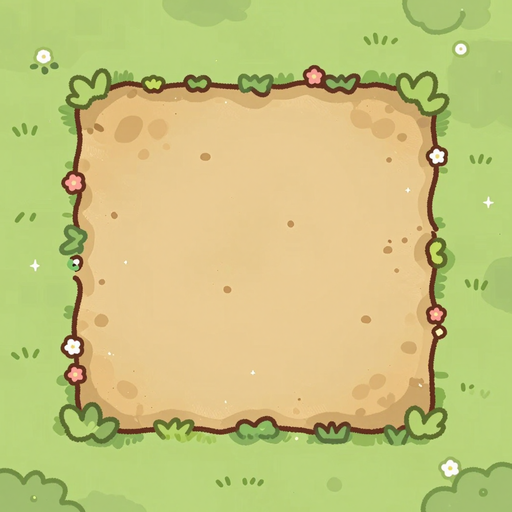
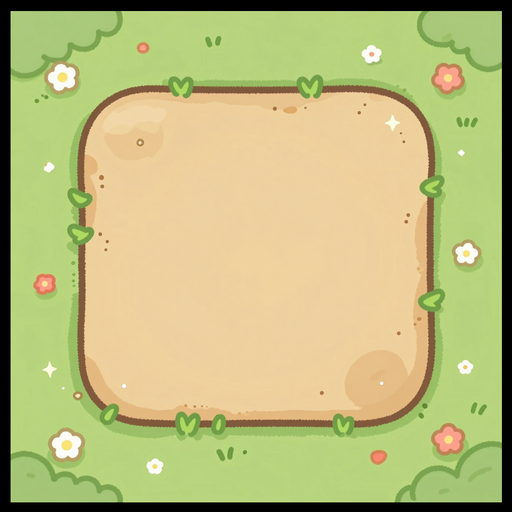
alfa 5b7b6e4: Merge: camino con las esquinas redondas, como Triple Town

diff --git a/alfa/demos/merge/js/losetas.js b/alfa/demos/merge/js/losetas.js
@@ -1,49 +1,59 @@
 // Fans of Merge · el CAMINO de tierra: LOSETAS pintadas a mano como en Animal Crossing (no una forma recortada por código), su camino de repuesto y su dibujo en la partida.
-// De una losa grande (un cuadrado de tierra sobre hierba, img/losa.png) salen el centro (tierra lisa), 4 lados y 4 esquinas, con la hierba,
-// las flores y las piedrecitas pintadas comiéndose el borde.
+// De una losa grande (un cuadrado de tierra con las esquinas redondas sobre hierba, img/losa.png) salen el centro (tierra lisa), 4 lados y
+// 4 esquinas redondas, con la hierba, las flores y las piedrecitas pintadas comiéndose el borde. De una isla (hierba redonda dentro de
+// tierra, img/isla.png) salen los 4 rincones, donde dos caminos se juntan en ángulo.
 // La tierra es algo más pequeña que la casilla (como en Triple Town) y solo se une con la vecina cuando las dos son camino; por cada lado
 // que da a la hierba lleva su borde pintado y, en cada esquina de fuera, su esquina. Los bordes se repiten en espejo para no cortarse.
 'use strict';
-// B = qué parte de la losa es borde (hierba + ondas; merge_losas.py deja la tierra a 1/6); O = cuánta tierra de más lleva cada lado para fundirse con el centro;
-// I = el margen de hierba que deja la tierra dentro de su casilla (como en Triple Town); A = lo ancho que sale el borde pintado (las dos, en partes de casilla)
-const MG_LOSA = { de: '', piezas: null, B: 0.2, O: 0.06, I: 0.13, A: 0.24 };
-// recorta una zona de una imagen y la desvanece: por fuera (fx, fy: -1, 0 o 1 = el lado de la hierba, que se funde con el suelo)
-// y, si fi > 0, por dentro (la parte de tierra que se mete en la casilla, para que se funda con el centro sin dejar raya)
-function mgLosaTrozo(im, x, y, w, h, fx, fy, fi) {
+// Medidas, en partes del lado de la imagen (merge_losas.py deja el cuadrado de tierra, o el de hierba en la isla, en los 2/3 del centro):
+// B = el borde de la losa (hierba, ondas y un poco de tierra); E = hasta dónde llega la esquina redonda contando desde el borde de la imagen;
+// O = cuánta tierra de más lleva cada pieza por dentro, que se funde con el centro; F = cuánta hierba se desvanece por fuera, para fundirse con el suelo;
+// IF = hasta dónde sale la esquina de la isla hacia la tierra; IR = hasta dónde entra en su hierba (su esquina redonda); C = desde dónde se toma el centro liso.
+// En partes de casilla: I = el margen de hierba que deja la tierra dentro de su casilla (como en Triple Town); A = lo ancho que se pinta el borde B.
+const MG_LOSA = { de: '', piezas: null, B: 0.2, E: 0.27, O: 0.06, F: 0.1, IF: 0.08, IR: 0.26, C: 0.27, I: 0.13, A: 0.24 };
+// recorta una zona (x, y, w, h) de una imagen y la desvanece por los lados que se le digan: f = [izquierda, derecha, arriba, abajo], en px de la imagen
+function mgLosaTrozo(im, x, y, w, h, f) {
   const cv = document.createElement('canvas'); cv.width = Math.max(1, Math.round(w)); cv.height = Math.max(1, Math.round(h));
   const c = cv.getContext('2d'); c.drawImage(im, x, y, w, h, 0, 0, cv.width, cv.height);
   c.globalCompositeOperation = 'destination-in';
-  // a lo largo del eje: 0 = el borde de fuera, 1 = el de dentro
-  const tira = (L, dir, horiz) => {
-    const g = horiz ? c.createLinearGradient(dir < 0 ? 0 : L, 0, dir < 0 ? L : 0, 0) : c.createLinearGradient(0, dir < 0 ? 0 : L, 0, dir < 0 ? L : 0);
-    g.addColorStop(0, 'rgba(0,0,0,0)'); g.addColorStop(0.4, 'rgba(0,0,0,1)');
-    if (fi) { g.addColorStop(Math.max(0.41, 1 - fi), 'rgba(0,0,0,1)'); g.addColorStop(1, 'rgba(0,0,0,0)'); } else g.addColorStop(1, 'rgba(0,0,0,1)');
+  const tira = (L, horiz, f0, f1) => {
+    if (!f0 && !f1) return;
+    const g = horiz ? c.createLinearGradient(0, 0, L, 0) : c.createLinearGradient(0, 0, 0, L);
+    g.addColorStop(0, f0 ? 'rgba(0,0,0,0)' : 'rgba(0,0,0,1)'); g.addColorStop(Math.min(0.49, f0 / L), 'rgba(0,0,0,1)');
+    g.addColorStop(Math.max(0.51, 1 - f1 / L), 'rgba(0,0,0,1)'); g.addColorStop(1, f1 ? 'rgba(0,0,0,0)' : 'rgba(0,0,0,1)');
     c.fillStyle = g; c.fillRect(0, 0, cv.width, cv.height);
   };
-  if (fx) tira(cv.width, fx, true);
-  if (fy) tira(cv.height, fy, false);
+  tira(cv.width, true, f[0], f[1]); tira(cv.height, false, f[2], f[3]);
   return cv;
 }
 function mgLosetasPrepara() {
-  const A = MG_IMG.LOSA;
-  if (!A) return false;
-  if (MG_LOSA.de === A.src) return true;
-  const w = A.width, b = w * MG_LOSA.B, m = w - 2 * b, o = w * MG_LOSA.O, fi = o / (b + o);
-  const P = { c: mgLosaTrozo(A, b, b, m, m, 0, 0, 0) };
-  // los lados llevan su hierba por fuera y un poco de tierra de más por dentro, que se funde con el centro
-  P.n = mgLosaTrozo(A, b, 0, m, b + o, 0, -1, fi); P.s = mgLosaTrozo(A, b, w - b - o, m, b + o, 0, 1, fi);
-  P.o = mgLosaTrozo(A, 0, b, b + o, m, -1, 0, fi); P.e = mgLosaTrozo(A, w - b - o, b, b + o, m, 1, 0, fi);
-  P.no = mgLosaTrozo(A, 0, 0, b, b, 0, 0, 0); P.ne = mgLosaTrozo(A, w - b, 0, b, b, 0, 0, 0); P.so = mgLosaTrozo(A, 0, w - b, b, b, 0, 0, 0); P.se = mgLosaTrozo(A, w - b, w - b, b, b, 0, 0, 0);
-  MG_LOSA.piezas = P; MG_LOSA.de = A.src; MG_LOSA.m = m / w; MG_LOSA.o = o / w;
+  const A = MG_IMG.LOSA, I = MG_IMG.ISLA;
+  if (!A || !I) return false;
+  const clave = A.src + '|' + I.src; if (MG_LOSA.de === clave) return true;
+  const L = MG_LOSA, w = A.width, b = w * L.B, m = w - 2 * b, o = w * L.O, f = w * L.F, e = w * L.E + o, lado = w - 2 * (e - o);   // lado = lo que queda de lado entre esquinas
+  const cc = w * L.C, P = { c: mgLosaTrozo(A, cc, cc, w - 2 * cc, w - 2 * cc, [0, 0, 0, 0]) };   // el centro: tierra lisa, sin las manchas de cerca del borde (al voltearse formarían una flor en cada cruce)
+  // los lados (sin sus esquinas): hierba por fuera, que se desvanece, y un poco de tierra por dentro, que se funde con el centro
+  P.n = mgLosaTrozo(A, e - o, 0, lado, b + o, [0, 0, f, o]); P.s = mgLosaTrozo(A, e - o, w - b - o, lado, b + o, [0, 0, o, f]);
+  P.o = mgLosaTrozo(A, 0, e - o, b + o, lado, [f, o, 0, 0]); P.e = mgLosaTrozo(A, w - b - o, e - o, b + o, lado, [o, f, 0, 0]);
+  // las esquinas redondas, con su trozo de tierra, que tapan el pico cuadrado de la tierra de debajo
+  P.no = mgLosaTrozo(A, 0, 0, e, e, [f, o, f, o]); P.ne = mgLosaTrozo(A, w - e, 0, e, e, [o, f, f, o]);
+  P.so = mgLosaTrozo(A, 0, w - e, e, e, [f, o, o, f]); P.se = mgLosaTrozo(A, w - e, w - e, e, e, [o, f, o, f]);
+  // la isla: su hierba redonda, dentro de la tierra, da los rincones donde dos caminos se juntan en ángulo
+  const wi = I.width, t = wi / 6, fi = wi * L.IF, ri = wi * L.IR, fo = wi * L.F, oi = wi * L.O;
+  P.ino = mgLosaTrozo(I, t - fi, t - fi, fi + ri, fi + ri, [oi, fo, oi, fo]); P.ine = mgLosaTrozo(I, wi - t - ri, t - fi, fi + ri, fi + ri, [fo, oi, oi, fo]);
+  P.iso = mgLosaTrozo(I, t - fi, wi - t - ri, fi + ri, fi + ri, [oi, fo, fo, oi]); P.ise = mgLosaTrozo(I, wi - t - ri, wi - t - ri, fi + ri, fi + ri, [fo, oi, fo, oi]);
+  MG_LOSA.piezas = P; MG_LOSA.de = clave; MG_LOSA.px = 1 / w;   // px: una unidad de imagen, en partes del lado
   return true;
 }
 // Pinta el camino con las losetas en el lienzo c (ya con la escala puesta). libre(x, y) dice si una casilla es del camino.
 // Como en Triple Town, la tierra no llena la casilla: deja un margen de hierba (MG_LOSA.I) y solo llega al borde por donde sigue el camino.
 // Para eso cada casilla se parte en 3x3 trocitos (margen, centro, margen): el del centro siempre es tierra, el de un lado si esa vecina
-// es camino, y el de una esquina si las tres casillas de ese lado lo son. Los bordes pintados se ponen donde un trocito de tierra toca hierba.
+// es camino, y el de una esquina si las tres casillas de ese lado lo son. Los bordes pintados se ponen donde un trocito de tierra toca hierba,
+// las esquinas redondas de la losa donde la hierba lo rodea por dos lados y las de la isla en los rincones.
 function mgLosetasPinta(c, libre) {
-  const P = MG_LOSA.piezas, cs = MG_V.cs, n = MG_CFG.lado, ins = cs * MG_LOSA.I;
-  const sb = cs * MG_LOSA.A, so = sb * MG_LOSA.O / MG_LOSA.B;   // cuánto sobresale el borde pintado y cuánto se mete en la tierra
+  const L = MG_LOSA, P = L.piezas, cs = MG_V.cs, n = MG_CFG.lado, ins = cs * L.I;
+  const esc = cs * L.A / L.B;   // px de pantalla por cada parte de imagen: el borde B se pinta de ancho A
+  const sb = esc * L.B, so = esc * L.O, se = esc * L.E + so, sif = esc * L.IF, sir = esc * L.IR;
   const X = x => MG_V.bx + x * cs, Y = y => MG_V.by + y * cs, off = [0, ins, cs - ins, cs];
   const camino = (x, y) => x >= 0 && y >= 0 && x < n && y < n && libre(x, y);
   // ¿es tierra el trocito (i, j) de la casilla (x, y)? en coordenadas globales de trocito: gx = 3x + i
@@ -86,10 +96,14 @@ function mgLosetasPinta(c, libre) {
     if (!T(gx - 1, gy)) tramo(P.o, false, y0, y1, x0 - sb, sb + so, MG_V.by);
     if (!T(gx + 1, gy)) tramo(P.e, false, y0, y1, x1 - so, sb + so, MG_V.by);
   }
-  // las esquinas de fuera (hierba por los dos lados del trocito); las de dentro las cierran los dos bordes que llegan al rincón
   for (const [gx, gy] of trozos) for (const [sx, sy] of [[-1, -1], [1, -1], [-1, 1], [1, 1]]) {
-    if (T(gx + sx, gy) || T(gx, gy + sy)) continue;
-    pon(P[(sy < 0 ? 'n' : 's') + (sx < 0 ? 'o' : 'e')], sx < 0 ? tx0(gx) - sb : tx1(gx), sy < 0 ? ty0(gy) - sb : ty1(gy), sb, sb, 1, 1);
+    const a = T(gx + sx, gy), v = T(gx, gy + sy);
+    if (!a && !v) {   // esquina de fuera: la redonda de la losa, encima del pico de la tierra
+      pon(P[(sy < 0 ? 'n' : 's') + (sx < 0 ? 'o' : 'e')], sx < 0 ? tx0(gx) - sb : tx1(gx) + sb - se, sy < 0 ? ty0(gy) - sb : ty1(gy) + sb - se, se, se, 1, 1);
+    } else if (a && v && !T(gx + sx, gy + sy)) {   // rincón: solo lo pinta el trocito que ve la hierba en diagonal, así sale una vez
+      const cx = sx > 0 ? tx1(gx) : tx0(gx), cy = sy > 0 ? ty1(gy) : ty0(gy);   // el punto del rincón
+      pon(P['i' + (sy > 0 ? 'n' : 's') + (sx > 0 ? 'o' : 'e')], sx > 0 ? cx - sif : cx - sir, sy > 0 ? cy - sif : cy - sir, sif + sir, sif + sir, 1, 1);
+    }
   }
 }
 // el camino entero, dibujado una vez en su propio lienzo (a la escala real k de la pantalla)

diff --git a/alfa/index.html b/alfa/index.html
@@ -10,10 +10,10 @@
 <link rel="preconnect" href="https://fonts.googleapis.com">
 <link rel="preconnect" href="https://fonts.gstatic.com" crossorigin>
 <link rel="stylesheet" href="https://fonts.googleapis.com/css2?family=Baloo+2:wght@600;700;800&family=Luckiest+Guy&display=swap">
-<link rel="stylesheet" href="core/css/base.css?v=3db6922">
-<link rel="stylesheet" href="biblioteca/tienda.css?v=3db6922">
-<link rel="stylesheet" href="novedades/ventana.css?v=3db6922">
-<link rel="stylesheet" href="biblioteca/votos.css?v=3db6922">
+<link rel="stylesheet" href="core/css/base.css?v=5b7b6e4">
+<link rel="stylesheet" href="biblioteca/tienda.css?v=5b7b6e4">
+<link rel="stylesheet" href="novedades/ventana.css?v=5b7b6e4">
+<link rel="stylesheet" href="biblioteca/votos.css?v=5b7b6e4">
 <style>
   /* la entrada de la web: una tarjeta por juego, con los colores y las letras de core */
   body { overflow: auto; touch-action: auto; align-items: flex-start; background-repeat: no-repeat; background-attachment: fixed; }
@@ -61,7 +61,7 @@
 </style>
 </head>
 <body>
-<script src="menu.js?v=3db6922" data-base="" data-core="1" data-pagina=""></script>
+<script src="menu.js?v=5b7b6e4" data-base="" data-core="1" data-pagina=""></script>
 <div class="nov-fondo" id="novedades" hidden>
   <div class="nov-caja" role="dialog" aria-modal="true" aria-labelledby="nov-titulo">
     <div class="nov-cabeza"><h2 class="ol" id="nov-titulo">NOVEDADES</h2><p id="nov-sub"></p></div>
@@ -333,8 +333,8 @@
   </section>
   <p class="note" id="pie-fansof">Fans Of™ · © 2026 Arkioner y Pepins · MicroBlizz · Todos los derechos reservados</p>
 </main>
-<script src="core/js/nucleo.js?v=0-a665.3db6922"></script>
-<script src="core/js/novedades.js?v=3db6922"></script>
+<script src="core/js/nucleo.js?v=0-a666.5b7b6e4"></script>
+<script src="core/js/novedades.js?v=5b7b6e4"></script>
 <script>
 // La cuenta de la web es la misma de los juegos (core/js/sistema/cuenta.js, mismo navegador = misma sesión). Aquí no hay partida que subir.
 const AJUSTES = { id: 'web', guardado: 'fansof-web' }, SAVE_KEY = AJUSTES.guardado, SAVE = {};
@@ -343,7 +343,7 @@ const HOOKS = {};
 function hook(name, fn) { (HOOKS[name] = HOOKS[name] || []).push(fn); }
 function fire(name, ...a) { let out = ''; for (const fn of HOOKS[name] || []) { const r = fn(...a); if (typeof r === 'string') out += r; } return out; }
 </script>
-<script src="core/js/sistema/cuenta.js?v=3db6922"></script>
+<script src="core/js/sistema/cuenta.js?v=5b7b6e4"></script>
 <script>NUCLEO.idiomaSolo({ en: ['core/idioma/en-raiz.js', 'novedades/en.js', 'biblioteca/en.js','games/rumble/idioma/en-7.js', 'games/td/idioma/en-2.js', 'games/survivors/idioma/en.js', 'games/crush/idioma/en-raiz.js', 'games/jump/idioma/en-raiz.js', 'games/taxi/idioma/en-raiz.js', 'games/dark/idioma/en-raiz.js', 'games/nova/idioma/en-raiz.js', 'demos/beams/idioma/en-raiz.js', 'demos/snakes/idioma/en-raiz.js', 'demos/merge/idioma/en-raiz.js', 'demos/swipe/idioma/en-raiz.js', 'demos/vikings/idioma/en-raiz.js', 'demos/goose/idioma/en-raiz.js', 'demos/asalto/idioma/en-raiz.js', 'demos/auto/idioma/en-raiz.js', 'games/island/idioma/en-raiz.js', 'demos/rumble-3d/idioma/en-raiz.js', 'demos/roguelite/idioma/en-raiz.js', 'demos/tactics-advance/idioma/en-raiz.js', 'games/rouflage/idioma/en-raiz.js', 'demos/dungeons/idioma/en-raiz.js', 'games/karts/idioma/en-raiz.js', 'demos/recruit/idioma/en-raiz.js', 'demos/terminal-shock/idioma/en-raiz.js', 'games/ratkov/idioma/en-raiz.js'] })</script>
 <script>
 // La versión y las novedades salen de los archivos de cada juego, así que esta página nunca se queda atrás.
@@ -369,14 +369,14 @@ const fail = id => () => {
 };
 
 </script>
-<script src="core/js/proximamente.js?v=3db6922"></script>
-<script src="novedades/ventana.js?v=3db6922"></script>
-<script src="biblioteca/tienda.js?v=3db6922"></script>
-<script src="core/js/sistema/beta.js?v=3db6922"></script>
-<script src="biblioteca/cuenta-web.js?v=3db6922"></script>
-<script src="biblioteca/votos.js?v=3db6922"></script>
-<script src="biblioteca/alfa.js?v=3db6922"></script>
-<script src="core/js/sistema/analitica.js?v=3db6922"></script>
-<script src="pie.js?v=3db6922" defer></script>
+<script src="core/js/proximamente.js?v=5b7b6e4"></script>
+<script src="novedades/ventana.js?v=5b7b6e4"></script>
+<script src="biblioteca/tienda.js?v=5b7b6e4"></script>
+<script src="core/js/sistema/beta.js?v=5b7b6e4"></script>
+<script src="biblioteca/cuenta-web.js?v=5b7b6e4"></script>
+<script src="biblioteca/votos.js?v=5b7b6e4"></script>
+<script src="biblioteca/alfa.js?v=5b7b6e4"></script>
+<script src="core/js/sistema/analitica.js?v=5b7b6e4"></script>
+<script src="pie.js?v=5b7b6e4" defer></script>
 </body>
 </html>

diff --git a/alfa/demos/merge/js/sprites.js b/alfa/demos/merge/js/sprites.js
@@ -9,7 +9,7 @@ const SPRITES = {
   zorro: 'img/zorro.png', cuervo: 'img/cuervo.png', semilla: 'img/semilla.png', topo: 'img/topo.png',
   FONDO: 'img/fondo.jpg', BUNNY: 'img/bunny.png',
   // el escenario y la interfaz, también pintados por Yoshi: suelo (textura que se repite), camino, conejito, iconos, charco y marco
-  SUELO: 'img/suelo.jpg', TIERRA: 'img/tierra.jpg', LOSA: 'img/losa.png', CONEJITO: 'img/conejito.png', RAYO: 'img/rayo.png', TIRACHINAS: 'img/tirachinas.png',
+  SUELO: 'img/suelo.jpg', TIERRA: 'img/tierra.jpg', LOSA: 'img/losa.png', ISLA: 'img/isla.png', CONEJITO: 'img/conejito.png', RAYO: 'img/rayo.png', TIRACHINAS: 'img/tirachinas.png',
   FLECHA: 'img/flecha.png', CHARCO: 'img/charco.png', MARCO: 'img/marco.png',
   ADORNO1: 'img/adorno-hierba.png', ADORNO2: 'img/adorno-amarilla.png', ADORNO3: 'img/adorno-flor.png', ADORNO4: 'img/adorno-piedras.png', ADORNO5: 'img/adorno-hierba.png', ADORNO6: 'img/adorno-flor.png',
   CHISPA: 'img/chispa.png', HOJA: 'img/hoja.png', RELAMPAGO: 'img/relampago.png', ESTRELLA: 'img/estrella.png', TABLON: 'img/tablon.png', BOTON: 'img/boton.png', LOGO: 'img/logo.png',

diff --git a/alfa/games/rouflage/index.html b/alfa/games/rouflage/index.html
@@ -10,7 +10,7 @@
 <link rel="preconnect" href="https://fonts.googleapis.com">
 <link rel="preconnect" href="https://fonts.gstatic.com" crossorigin>
 <link rel="stylesheet" href="https://fonts.googleapis.com/css2?family=Baloo+2:wght@600;700;800&family=Luckiest+Guy&display=swap">
-<script src="../../core/js/nucleo.js?v=0.2.63-a665.3db6922"></script>
+<script src="../../core/js/nucleo.js?v=0.2.63-a666.5b7b6e4"></script>
 <script>NUCLEO.estilos('../../core/css/base.css', '../../core/css/menus.css', '../../core/css/menus-extra.css')</script>
 <script>NUCLEO.estilos('estilo.css', 'estilo-taller.css', 'estilo-pantallas.css', 'estilo-pvp.css', 'estilo-armario.css', 'estilo-menus.css', 'estilo-misiones.css', 'estilo-escenario.css', 'estilo-votos.css', 'estilo-gacha.css', 'estilo-compra.css', 'estilo-fin.css', 'estilo-talentos.css', 'estilo-chat.css', 'estilo-titulo.css', 'estilo-barra.css', 'estilo-sala-viva.css', 'estilo-obra.css', 'estilo-ayuda.css', 'estilo-carga.css')</script>      <!-- la intro, la última: pisa el #carga de estilo.css (antes iba en línea dentro de #carga) -->
 </head>

diff --git a/alfa/games/karts/index.html b/alfa/games/karts/index.html
@@ -8,7 +8,7 @@
 <meta name="description" content="Fans of Karts (juego): carreras de karts en pixel art de consola portátil con los líderes de Fans of Rumble. Tres pistas, seis pilotos, objetos con mala idea y Microblizz, que ha comprado la carrera.">
 <link rel="icon" type="image/png" href="img/icon-192.png">
 <link rel="apple-touch-icon" href="img/icon-192.png">
-<script src="../../core/js/nucleo.js?v=0.7.15-a665.3db6922"></script>
+<script src="../../core/js/nucleo.js?v=0.7.15-a666.5b7b6e4"></script>
 <script>NUCLEO.estilos('../../core/css/base.css', '../../core/css/menus.css', '../../core/css/menus-tienda.css', '../../core/css/menus-extra.css', 'css/tienda.css', 'css/pvp.css')</script>
 <link rel="stylesheet" href="https://fonts.googleapis.com/css2?family=Baloo+2:wght@600;700;800&family=Luckiest+Guy&display=swap">
 <style>

diff --git a/alfa/games/dark/index.html b/alfa/games/dark/index.html
@@ -12,7 +12,7 @@
 <link rel="stylesheet" href="https://fonts.googleapis.com/css2?family=Baloo+2:wght@600;700;800&family=Luckiest+Guy&family=Press+Start+2P&family=Pixelify+Sans:wght@400;600;700&display=swap">
 <link rel="stylesheet" href="css/dark.css?v=0.2.4">
 <!-- Prototipo: no usa NUCLEO (tiene su propia partida guardada). Carga de core el arte, la música, los efectos y las cifras del Rumble.
-     VERSIÓN para desplegar.py (que la busca así): nucleo.js?v=0.2.7-a665.3db6922' (aquí solo se anota; súbela junto al ?v= de los scripts). -->
+     VERSIÓN para desplegar.py (que la busca así): nucleo.js?v=0.2.7-a666.5b7b6e4' (aquí solo se anota; súbela junto al ?v= de los scripts). -->
 </head>
 <body>
 <canvas id="cv" aria-label="Mazmorra"></canvas>

diff --git a/alfa/games/rumble/index.html b/alfa/games/rumble/index.html
@@ -16,7 +16,7 @@
 <link rel="preconnect" href="https://fonts.gstatic.com" crossorigin>
 <link rel="stylesheet" href="https://fonts.googleapis.com/css2?family=Baloo+2:wght@600;700;800&family=Luckiest+Guy&display=swap">
 <!-- core/js/nucleo.js carga lo común y el juego. LA VERSIÓN SE ESCRIBE SOLO AQUÍ, en su ?v= -->
-<script src="../../core/js/nucleo.js?v=0.9.158-a665.3db6922"></script>
+<script src="../../core/js/nucleo.js?v=0.9.158-a666.5b7b6e4"></script>
 <script>NUCLEO.estilos('../../core/css/menus.css', 'css/estilos-partida.css', 'css/estilos-extra.css', 'css/arena.css', '../../core/css/biblioteca.css', 'css/facciones-y-jefes.css', '../../core/css/clasificacion.css', 'css/frases.css', 'css/mitica.css', 'css/paletas.css')</script>
 
 </head>

diff --git a/alfa/games/jump/index.html b/alfa/games/jump/index.html
@@ -12,7 +12,7 @@
 <link rel="preconnect" href="https://fonts.gstatic.com" crossorigin>
 <link rel="stylesheet" href="https://fonts.googleapis.com/css2?family=Baloo+2:wght@600;700;800&family=Luckiest+Guy&display=swap">
 <!-- ?v= es la versión del juego (la misma en la web y en la app): súbela al publicar y pon su entrada en js/novedades.js -->
-<script src="../../core/js/nucleo.js?v=0.3.16-a665.3db6922"></script>
+<script src="../../core/js/nucleo.js?v=0.3.16-a666.5b7b6e4"></script>
 <script>NUCLEO.estilos('../../core/css/base.css', '../../core/css/menus.css')</script>
 <style>
 /* Fans of Jump: un solo canvas a la resolución real de la pantalla, con los dibujos 3D. El mundo mide unos 200 de ancho y se

diff --git a/alfa/games/decks/index.html b/alfa/games/decks/index.html
@@ -15,7 +15,7 @@
 <link rel="preconnect" href="https://fonts.gstatic.com" crossorigin>
 <link rel="stylesheet" href="https://fonts.googleapis.com/css2?family=Baloo+2:wght@600;700;800&family=Luckiest+Guy&display=swap">
 <!-- core/js/nucleo.js carga lo común y el juego. LA VERSIÓN SE ESCRIBE SOLO AQUÍ, en su ?v= -->
-<script src="../../core/js/nucleo.js?v=0.2.21-a665.3db6922"></script>
+<script src="../../core/js/nucleo.js?v=0.2.21-a666.5b7b6e4"></script>
 <script>NUCLEO.estilos('../../core/css/base.css', '../../core/css/menus.css', 'css/decks.css', 'css/decks-reunion.css', 'css/decks-anim.css', 'css/decks-campana.css', 'css/decks-lideres.css')</script>
 </head>
 <body>

diff --git a/alfa/demos/goose/index.html b/alfa/demos/goose/index.html
@@ -10,7 +10,7 @@
 <link rel="preconnect" href="https://fonts.gstatic.com" crossorigin>
 <link rel="stylesheet" href="https://fonts.googleapis.com/css2?family=Pixelify+Sans:wght@500;700&family=Pirata+One&display=swap">
 <!-- ?v= es la versión de la demo: súbela al publicar -->
-<script src="../../core/js/nucleo.js?v=0.3.1-a665.3db6922"></script>
+<script src="../../core/js/nucleo.js?v=0.3.1-a666.5b7b6e4"></script>
 <script>NUCLEO.estilos('../../core/css/base.css', '../../core/css/menus.css')</script>
 <style>
 /* Fans of Goose: un solo canvas en vertical, a la resolución real del móvil. El mundo mide 200 de ancho. */

diff --git a/alfa/games/ratkov/index.html b/alfa/games/ratkov/index.html
@@ -13,7 +13,7 @@
 <link rel="preconnect" href="https://fonts.gstatic.com" crossorigin>
 <link rel="stylesheet" href="https://fonts.googleapis.com/css2?family=VT323&family=Russo+One&display=swap">
 <script src="https://cdnjs.cloudflare.com/ajax/libs/three.js/r128/three.min.js"></script>
-<script src="../../core/js/nucleo.js?v=0.2.29-a665.3db6922"></script>
+<script src="../../core/js/nucleo.js?v=0.2.29-a666.5b7b6e4"></script>
 <script>NUCLEO.estilos('../../core/css/base.css', '../../core/css/menus.css')</script>
 <link rel="stylesheet" href="estilo.css?v=0.2.3">
 <link rel="stylesheet" href="estilo-refugio.css?v=0.2.3">

diff --git a/alfa/games/survivors/index.html b/alfa/games/survivors/index.html
@@ -15,7 +15,7 @@
 <link rel="preconnect" href="https://fonts.gstatic.com" crossorigin>
 <link rel="stylesheet" href="https://fonts.googleapis.com/css2?family=Baloo+2:wght@600;700;800&family=Luckiest+Guy&display=swap">
 <!-- core/js/nucleo.js carga lo común y el juego. LA VERSIÓN SE ESCRIBE SOLO AQUÍ, en su ?v= -->
-<script src="../../core/js/nucleo.js?v=0.1.71-a665.3db6922"></script>
+<script src="../../core/js/nucleo.js?v=0.1.71-a666.5b7b6e4"></script>
 <script>NUCLEO.estilos('../../core/css/base.css', '../../core/css/menus.css', 'css/survivors.css', '../../core/css/biblioteca.css')</script>
 </head>
 <body>
